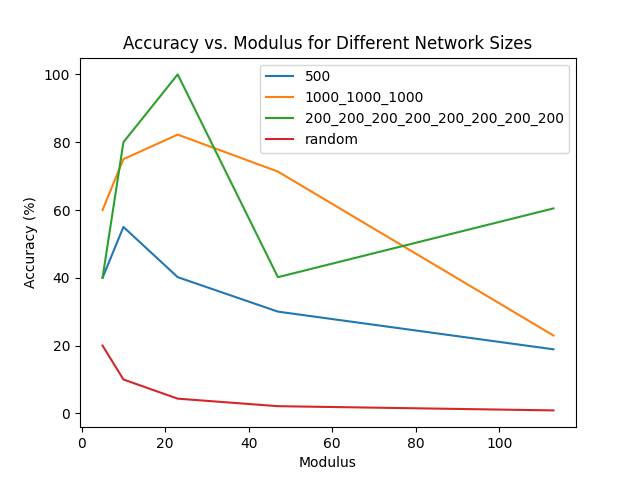
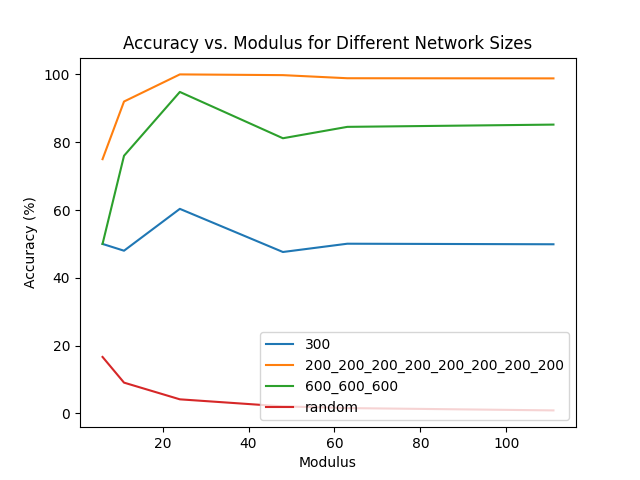
More epochs, better experiment and plot

diff --git a/AIS Upskilling/DOM/clf_mlp_mod_sub/helper.py b/AIS Upskilling/DOM/clf_mlp_mod_sub/helper.py
@@ -231,10 +231,29 @@ def run_experiments(moduli, hidden_layer_configs, batch_size, epochs, lr, result
                 results[hidden_layers_str]['moduli'].append(mod)
                 results[hidden_layers_str]['accuracies'].append(accuracy)
 
-    # Save results to file
-    with open(results_file, 'w') as f:
-        json.dump(results, f, indent=4)
+                results = sort_results(results)
 
+                # Save results to file
+                with open(results_file, 'w') as f:
+                    json.dump(results, f, indent=4)
+
+def sort_results(results):
+    sorted_results = {}
+
+    for hidden_layers, mod_acc_dict in results.items():
+        moduli = mod_acc_dict["moduli"]
+        accuracies = mod_acc_dict["accuracies"]
+        
+        # Zip them together, sort by moduli, and unzip
+        mod_acc_pairs = sorted(zip(moduli, accuracies))
+        sorted_moduli, sorted_accuracies = zip(*mod_acc_pairs)
+        
+        sorted_results[hidden_layers] = {
+            "moduli": list(sorted_moduli),
+            "accuracies": list(sorted_accuracies)
+        }
+    
+    return sorted_results
 
 def get_results(results_file='results.json'):
     if os.path.exists(results_file):
